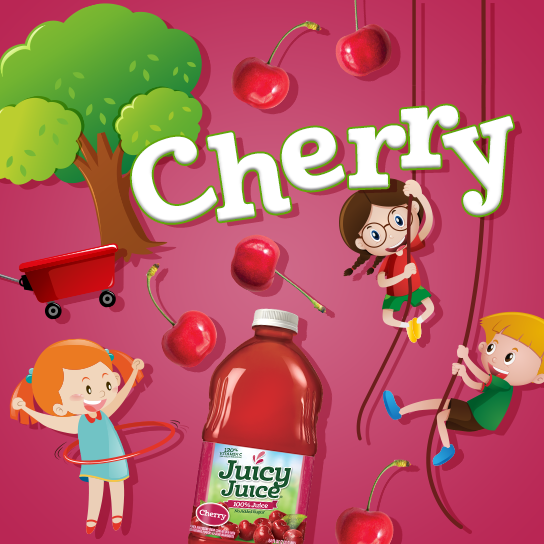
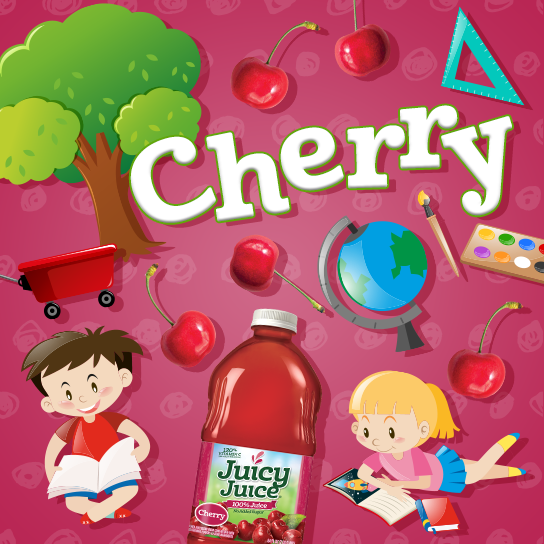
add memory match new version

diff --git a/js/subprices-ccw.js b/js/subprices-ccw.js
@@ -336,7 +336,7 @@ jQuery(document).ready(function($) {
     }
     if (play == 'cherry') {
         $('.game_holder').css('background', 'url(memory-images/cherry_bg.png)');
-        end_message = 'The world record <br>for cherry pit-spitting <br>is a whopping <br>93 feet 6.5 inches.';
+        end_message = 'A cherry tree<br>can be harvested<br>in seven seconds.';
         end_fruit = 'cherry';
     }
     if (play == 'kiwi-strawberry') {
@@ -351,7 +351,7 @@ jQuery(document).ready(function($) {
     }
 
     function end_action(end_message_holder, end_fruit_holder) {
-        $('.memory_game_board').append($('<div class="completed_holder"> <img class="you_did_it" src="img/you_did_it.png"> <div class="ctext">You’ve completed the Memory Match Game.</div><div class="message_board"> <div class="holder"> <img class="fruit_fact_head" src="img/fruit_fact_head_'+end_fruit_holder+'.png"> <div class="fruit_fact_info">'+end_message_holder+'</div></div><div class="ghost"></div><img class="girl" src="img/girl.png"> <img class="fruit_fact" src="img/fruit_fact_'+end_fruit_holder+'.png"> </div><div class="end_ctas"><a class="play_again" href="javascript:void(0);" onClick="window.location.reload()">PLAY AGAIN <span class="glyphicon glyphicon-play" aria-hidden="true"></span></a><a class="spin_again" href="?page=spin">SPIN <span class="glyphicon glyphicon-play" aria-hidden="true"></span></a><br><a class="get_coupon_btn" target="_blank" href="?page=coupon">GET COUPON</a></div></div>').hide().fadeIn(1000));
+        $('.memory_game_board').append($('<div class="completed_holder"> <img class="you_did_it" src="img/you_did_it.png"> <div class="ctext">You’ve completed the Memory Match Game.</div><div class="message_board"> <div class="holder"> <img class="fruit_fact_head" src="img/fruit_fact_head_'+end_fruit_holder+'.png"> <div class="fruit_fact_info">'+end_message_holder+'</div></div><div class="ghost"></div><img class="girl" src="img/boy.png"> <img class="fruit_fact" src="img/fruit_fact_'+end_fruit_holder+'.png"> </div><div class="end_ctas"><a class="play_again" href="javascript:void(0);" onClick="window.location.reload()">PLAY AGAIN <span class="glyphicon glyphicon-play" aria-hidden="true"></span></a><a class="spin_again" href="?page=spin">SPIN <span class="glyphicon glyphicon-play" aria-hidden="true"></span></a><br><a class="get_coupon_btn" target="_blank" href="?page=coupon">GET COUPON</a></div></div>').hide().fadeIn(1000));
     }    
 
     $.fn.shuffle = function() {

diff --git a/css/style.css b/css/style.css
@@ -837,7 +837,7 @@ main {
 }
 .ctext {
     font-family: 'CabritoNorBol';
-    color: #fff;
+    color: #1a5632;
     text-align: center;
     font-size: 18px;
 }
@@ -877,13 +877,16 @@ main {
 }
 .play_again, .spin_again {
     color: #fff;
-    padding: 0 15px;
+    padding: 10px 15px;
     font-size: 18px;
+    background: #1a5632;
+    margin: 0 10px;
 }
 .play_again span, .spin_again span {
     font-size: 9px;
     vertical-align: top;
     line-height: 22px;
+    display: none;
 }
 .play_again:hover, .spin_again:hover,
 .play_again:focus, .spin_again:focus {
